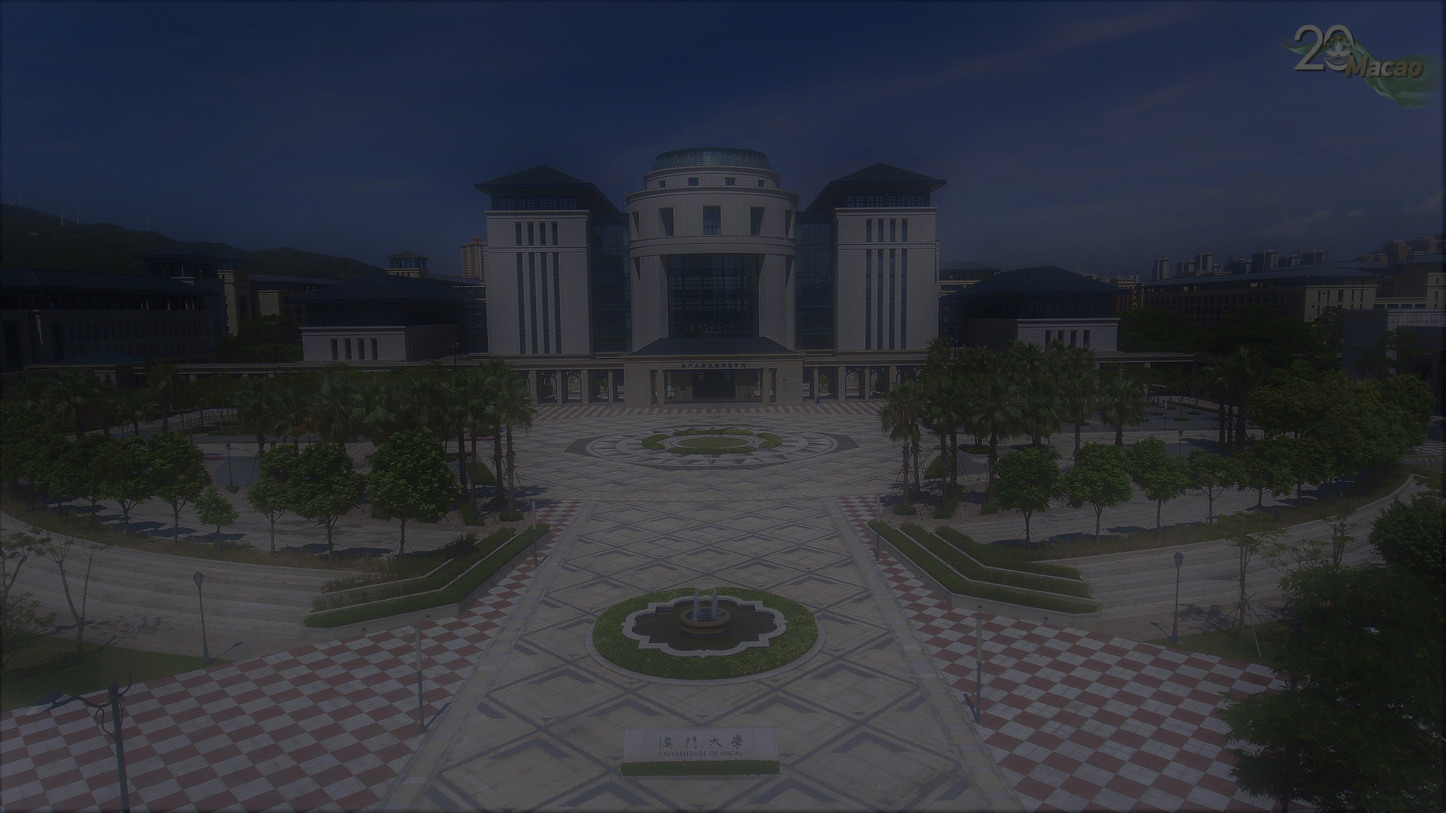
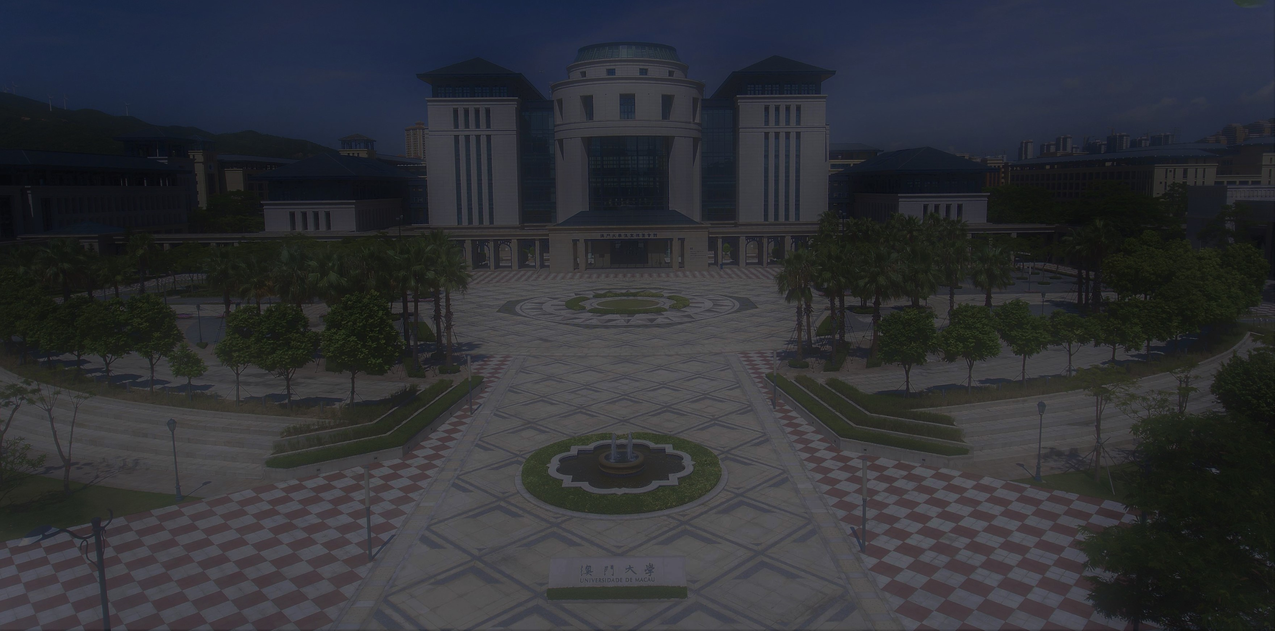
fixed various bugs
1.背景图片拉伸方式修改：居中拉伸
2.主搜索界面最大宽度限制：适配大！屏
3.语言翻译为繁体中文（学长当时我记得这么要求的）
4.图片去掉右上角那个20的标识了
仅对index进行了修改

diff --git a/beta/scripts/search.js b/beta/scripts/search.js
@@ -3,7 +3,7 @@ var API_server = "https://mpserver.umeh.top";
 var search_button = document.getElementById("search");
 
 function changeType() {
-  document.getElementById("course_input").placeholder = "Eg. " + (document.getElementById("byCrn").checked == true ? "ACCT1000" : "CHAN TAI MAN");
+  document.getElementById("course_input").placeholder = "例如：" + (document.getElementById("byCrn").checked == true ? "ACCT1000" : "CHAN TAI MAN");
 }
 
 function goSearch() {
@@ -42,7 +42,7 @@ function searcher(crn) {
         try {
           var resp_json = JSON.parse(resp_text);
           if (resp_json.course_info.New_code === undefined) {
-            throw "Undefined: New_code. Contact developers for help.";
+            throw "New_Code未定義. 請和開發者聯係，謝謝！";
           }
 
           document.getElementById("title").innerHTML =
@@ -55,28 +55,28 @@ function searcher(crn) {
             resp_json.course_info.courseTitleChi;
 
           document.getElementById("course_info").innerHTML =
-            "Offered by " + resp_json.course_info.Offering_Department + ", " + resp_json.course_info.Offering_Unit;
+            "授課單位：" + resp_json.course_info.Offering_Department + ", " + resp_json.course_info.Offering_Unit;
 
-          document.getElementById("medium").innerHTML = resp_json.course_info.Medium_of_Instruction + " Instruction";
-          document.getElementById("credits").innerHTML = resp_json.course_info.Credits + " Credits";
+          document.getElementById("medium").innerHTML = resp_json.course_info.Medium_of_Instruction + " ：講課語言";
+          document.getElementById("credits").innerHTML = resp_json.course_info.Credits + " 學分";
           document.getElementById("entry").style.height = 0;
 
-          search_button.innerHTML = "Search";
+          search_button.innerHTML = "搜索";
           search_button.removeAttribute("disabled");
           document.getElementById("course_input").removeAttribute("disabled");
 
           if (resp_json.prof_info.length === 0) {
-            document.getElementById("course_rank").innerHTML = "Average: Not Available";
+            document.getElementById("course_rank").innerHTML = "平均得分：暫無數據";
           } else {
             rank = 0;
             for (i in resp_json.prof_info) {
               rank += resp_json.prof_info[i].result;
               document.getElementById("ins_panel").innerHTML += '<div class="page_container primary_white large10 medium10 small10 zi2 ins_info"><a href="./instructor.html?New_code=' + encodeURIComponent(resp_json.course_info.New_code) + "&prof_name=" + encodeURIComponent(resp_json.prof_info[i].name) +
-                '" target="_blank"><div>' + resp_json.prof_info[i].name + '</div></a><span class="flex_text"> <div>' + resp_json.prof_info[i].num + ' Comments</div></span><span class="flex_text"><div>' + String((resp_json.prof_info[i].result * 2).toFixed(2)) + '/10</div></span><div class="bar" style="margin-top:0.5cm"><div class="barcontent" style="width: ' + resp_json.prof_info[i].result * 20 + '%"></div></div></div>'
+                '" target="_blank"><div>' + resp_json.prof_info[i].name + '</div></a><span class="flex_text"> <div>' + resp_json.prof_info[i].num + ' 評論</div></span><span class="flex_text"><div>' + String((resp_json.prof_info[i].result * 2).toFixed(2)) + '/10</div></span><div class="bar" style="margin-top:0.5cm"><div class="barcontent" style="width: ' + resp_json.prof_info[i].result * 20 + '%"></div></div></div>'
 
             }
 
-            document.getElementById("course_rank").innerHTML = "Average: " +
+            document.getElementById("course_rank").innerHTML = "平均得分: " +
               String(((rank / resp_json.prof_info.length) * 2).toFixed(2)) +
               "/10";
 
@@ -87,9 +87,9 @@ function searcher(crn) {
             document.getElementById("info").style.visibility = "visible";
           }
         } catch (e) {
-          alert("Invalid course code. \rError：" + String(e));
+          alert("課程代號無效. \r錯誤代碼：" + String(e));
 
-          search_button.innerHTML = "Search";
+          search_button.innerHTML = "搜索";
           search_button.removeAttribute("disabled");
           document.getElementById("course_input").removeAttribute("disabled");
           document.getElementById("progress").style.visibility = "hidden";
@@ -111,7 +111,7 @@ function searcher(crn) {
 
     request_search.send();
   } catch (e) {
-    alert("Network issue. Contact developers for help. " + String(e));
+    alert("網絡錯誤. 錯誤代碼：" + String(e));
   }
 }
 

diff --git a/beta/index.html b/beta/index.html
@@ -1,19 +1,15 @@
-<!--
-    https://fluentdesignforweb.github.io/documentation/#/progress_bar
--->
-
 <!doctype html>
 
 <html lang="zh-TW">
 
 <head>
+
     <meta charset="utf-8">
-    <title>澳大選咩課 What2Reg @UM</title>
-    <meta name="description" content="澳大選咩課 What2Reg @UM">
+    <title>澳大選咩課</title>
+    <meta name="description" content="澳大選咩課">
     <meta name="viewport" content="width=device-width, initial-scale=1">
     <link rel="stylesheet" href="./css/fluent.min.css">
     <link href="./css/fluent-icons.css" rel="stylesheet" type="text/css" />
-
     <meta name="theme-color" content="#ffffff">
 
 </head>
@@ -24,6 +20,7 @@
         background-repeat: no-repeat;
         background-attachment: fixed;
         background-size: cover;
+        background-position:center 0;
     }
 
     #logo {
@@ -65,34 +62,33 @@
 <body>
     <br><br>
     <!-- Search panel -->
-    <main id="entry" class="column large7 medium10 small12 page_container center" style="padding:0;">
+    <main id="entry" class="column large7 medium10 small12 page_container center" style="padding:0; max-width:13.5cm;">
 
         <br><br>
 
         <div class="page_container primary_white zi2" style="padding: 1cm; padding-bottom: 0; vertical-align: middle;">
 
             <img id="logo" src="https://web.umeh.top/images/badge.png" alt="icon">
-            <h6>What2Reg @UM</h6>
-            <br>
-            <input type="text" id="course_input" placeholder="Eg. ACCT1000" class="btm_brdr transparent" />
+            <h6>澳大選咩課</h6>
+            <input type="text" id="course_input" placeholder="例如：ACCT1000" class="btm_brdr transparent" />
 
-            <p>Search by course code or formal name of instructor.</p>
+            <p>閣下可搜索課程代號或教授英文名。</p>
 
-            <span class="select"><input type="radio" name="bool" id="byCrn" checked /> Filter by course </span>
-            <span class="select"><input type="radio" name="bool" id="byIns" /> Filter by
-                instructor</span>
+            <span class="select"><input type="radio" name="bool" id="byCrn" checked /> 透過課程代號搜索 </span>
+            <span class="select"><input type="radio" name="bool" id="byIns" /> 透過教授英文名搜索 </span>
 
             <button id="search" class="primary_blue small dlevel2 right"
-                style="margin-top:1cm;margin-bottom:1cm">Search</button>
+                style="margin-top:1cm;margin-bottom:1cm">搜索</button>
             <div class="indeterminate_progress_bar" id="progress" style="width: 100%; visibility: hidden;"></div>
         </div>
         <br><br>
     </main>
 
     <!-- Course info panel -->
-    <main id="info" class="column large8 medium10 small12 page_container center" style="padding:0;">
+    <main id="info" class="column large8 medium10 small12 page_container center" style="padding:0; max-width:25cm;">
         <br><br>
-        <div class="page_container primary_white" style="padding:0;vertical-align: middle;">
+        <div class="page_container primary_white"
+            style="padding:0;vertical-align: middle;">
             <!-- Row 1 -->
             <div class="primary_blue" style="width: 100%; padding: 1cm;">
                 <button id="back" class="primary_blue"
@@ -102,8 +98,7 @@
                 <br><br>
 
                 <span class="flex_text">
-                    <div class="bold" style="font-size:x-large;" id="course_name">LOADING
-                        COURSE INFO</div>
+                    <div class="bold" style="font-size:x-large;" id="course_name">加載課程數據</div>
                 </span>
                 <span class="flex_text">
                     <div class="bold" style="font-size:x-large;" id="course_name_chi">加載課程信息
